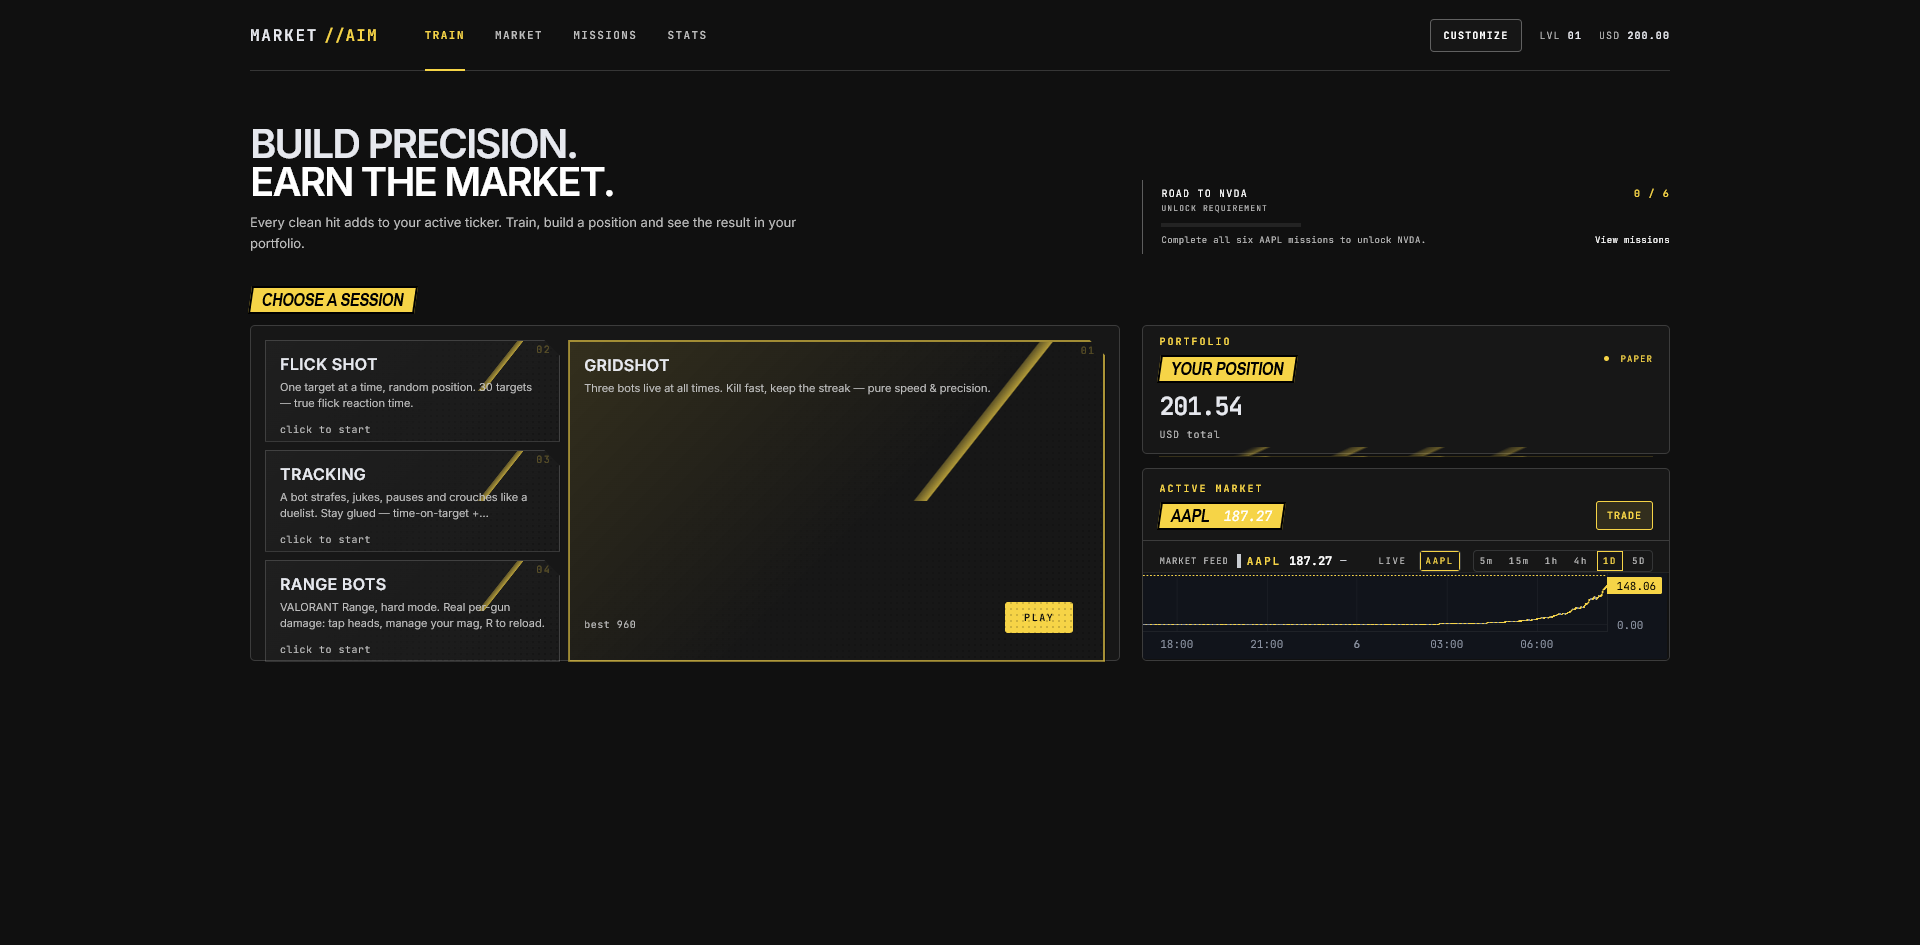
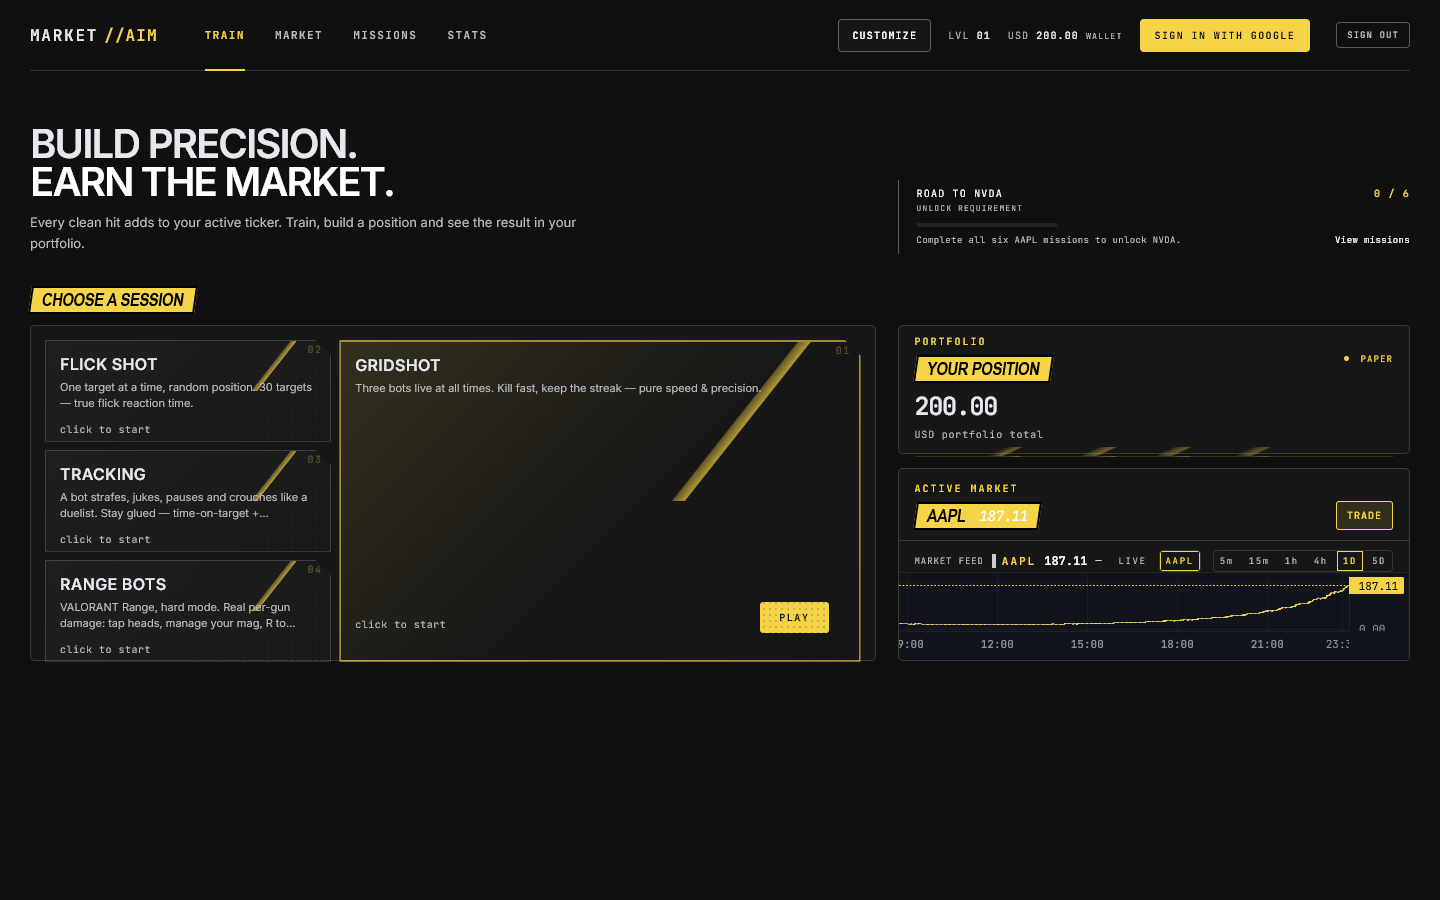
integrate auth into store, add auth.test (14 cases), fix in-memory round helper

diff --git a/client/src/store.js b/client/src/store.js
@@ -1,11 +1,16 @@
 // client/src/store.js — client-side mirror of the server state.
 // Pulls from /portfolio and /missions on demand, exposes a tiny event
 // emitter so the UI can subscribe. No third-party state lib.
+//
+// Auth is handled by client/js/auth.js which mounts a global window.auth
+// singleton. The store listens to it and re-binds player identity when
+// the user signs in / out, so the rest of the app only has to look at
+// state.player to know who is playing.
 
-import { api } from './api.js?v=20261006-4';
-import { getPlayerId, setPlayerId } from './api.js?v=20261006-4';
-import { getSessionId } from './session.js?v=20261006-4';
-import { loadGuestSnapshot, saveGuestSnapshot, clearGuestSnapshot } from './persist.js?v=20261006-4';
+import { api } from './api.js?v=20261006-7';
+import { getPlayerId, setPlayerId } from './api.js?v=20261006-7';
+import { getSessionId } from './session.js?v=20261006-7';
+import { loadGuestSnapshot, saveGuestSnapshot, clearGuestSnapshot } from './persist.js?v=20261006-7';
 
 function createStore() {
   const listeners = new Set();
@@ -19,6 +24,7 @@ function createStore() {
     loadout: { owned: [], catalog: [] }, // { owned: [gunId], catalog: [...] }
     lastError: null,
     lastHit: null,        // last aim/hit result (for the floating HUD chip)
+    auth: { signedIn: false, email: null }, // mirror of window.auth
   };
 
   function emit() { for (const l of listeners) l(state); }
@@ -44,6 +50,22 @@ function createStore() {
     return state;
   }
 
+  function applyAuthState(authState) {
+    // Mirror the auth singleton into our store so UI panels can read
+    // state.auth without taking a hard dependency on window.auth.
+    state.auth = {
+      signedIn: !!(authState && authState.player),
+      email: authState?.profile?.email || authState?.player?.email || null,
+      playerId: authState?.player?.id || null,
+    };
+    if (state.auth.signedIn) {
+      // Adopt the signed-in player id so /portfolio, /aim/hit, etc.
+      // start using the persisted Google-backed account.
+      setPlayerId(state.auth.playerId);
+    }
+    emit();
+  }
+
   // Local-only bootstrap: if the user has a saved guest snapshot, use it
   // for an instant first paint while the server round-trip is in flight.
   function bootstrap() {
@@ -55,15 +77,36 @@ function createStore() {
       state.unlocks = snap.unlocks || [];
       state.missions = snap.missions || [];
     }
+    // Subscribe to auth state. auth.js (loaded as a separate module) is
+    // expected to put a singleton on window.auth. We poll briefly so a
+    // race-condition between module load order doesn't leave us deaf.
+    function attach() {
+      if (window.auth && typeof window.auth.onChange === 'function') {
+        window.auth.onChange(applyAuthState);
+        // Sync the initial state in case auth already finished its
+        // /auth/me lookup.
+        applyAuthState(window.auth.state);
+        return true;
+      }
+      return false;
+    }
+    if (!attach()) {
+      let tries = 0;
+      const id = setInterval(() => {
+        if (attach() || ++tries > 50) clearInterval(id);
+      }, 60);
+    }
     // Eagerly kick off a server refresh. mountMissions (and other panels)
     // subscribe to the store; without this, the first render reads an
     // empty state and shows "0/6 claimed" instead of the real data.
     refresh().catch(() => { /* server may be down; keep guest snapshot */ });
   }
 
-  async function recordAimHit({ hitId, ticker, accuracy, streak }) {
+  async function recordAimHit({ hitId, ticker, accuracy, streak, gunId }) {
     const r = await api.post('/aim/hit', {
       hitId, ticker, accuracy, streak, ts: Date.now(),
+      // Pass the gunId so the server can apply per-weapon earnMult.
+      gunId: gunId || null,
     });
     state.lastHit = r;
     // Optimistic local update of the balance, but trust the server on the

diff --git a/server/src/util/gtoken.js b/server/src/util/gtoken.js
@@ -8,15 +8,27 @@
 // other crypto needs.
 //
 // On any verification error we throw — the caller turns it into a 401.
+//
+// Audience check: the optional `expectedAud` argument is the OAuth client
+// id we expect to see in the `aud` claim. If supplied and the token
+// reports a different `aud`, the token is rejected. This is what
+// prevents an attacker from replaying a token they got for a different
+// app at our endpoint. The expected id is wired up by authRoutes from
+// config.google.clientId.
 
 import { HttpError } from './json.js';
 
 const TOKENINFO_URL = 'https://oauth2.googleapis.com/tokeninfo';
 
-export async function verifyGoogleIdToken(idToken, { clientId } = {}) {
+export async function verifyGoogleIdToken(idToken, { expectedAud } = {}) {
   if (!idToken || typeof idToken !== 'string') {
     throw new HttpError(400, 'missing_id_token', 'idToken is required');
   }
+  // We resolve the expected audience at call time, not module load
+  // time, so a test that mutates process.env.GOOGLE_CLIENT_ID before
+  // calling us actually wins. The explicit `expectedAud` argument
+  // always wins (used by the production wiring in auth.js).
+  const aud = expectedAud || process.env.GOOGLE_CLIENT_ID || '';
   const url = `${TOKENINFO_URL}?id_token=${encodeURIComponent(idToken)}`;
   const res = await fetch(url, { method: 'GET' });
   if (!res.ok) {
@@ -27,9 +39,17 @@ export async function verifyGoogleIdToken(idToken, { clientId } = {}) {
   if (!payload.sub) {
     throw new HttpError(401, 'invalid_id_token', 'tokeninfo response missing sub');
   }
-  // Audience check: the token must have been issued for our OAuth client.
-  if (clientId && payload.aud && payload.aud !== clientId) {
-    throw new HttpError(401, 'audience_mismatch', 'id_token was issued for a different OAuth client');
+  // Audience check. If we know our client id, the token's `aud` MUST
+  // match. If we don't know it (e.g. dev env without GOOGLE_CLIENT_ID),
+  // we still record what the token claims, but don't reject — the
+  // server operator can opt in to a stricter check by setting the env
+  // var. We also defensively reject any aud that is not a string or is
+  // an array, since Google always issues a single string aud.
+  if (aud) {
+    if (payload.aud !== aud) {
+      throw new HttpError(401, 'audience_mismatch',
+        `id_token was issued for a different OAuth client (expected ${aud}, got ${payload.aud})`);
+    }
   }
   // Issuer check: must be Google (account chooser returns accounts.google.com too).
   if (payload.iss && payload.iss !== 'https://accounts.google.com' && payload.iss !== 'accounts.google.com') {

diff --git a/client/index.html b/client/index.html
@@ -275,7 +275,7 @@
   } catch (_) { /* no-op in browsers that lack these APIs */ }
 </script>
 <script type="module" src="src/bootstrap.js?v=20261006-5"></script>
-<script type="module" src="js/auth.js?v=20261006-6"></script>
+<script type="module" src="js/auth.js?v=20261006-7"></script>
 <!-- vibes_aim bridge (auto-registers the aim-bridge and boots the server-availability check) -->
 <script type="module" src="js/aim-bridge.js?v=20261006-5"></script>
 <!-- Google Identity Services: loads the GIS script that renders the

diff --git a/server/src/db/store.js b/server/src/db/store.js
@@ -18,6 +18,14 @@
 
 import { randomUUID } from 'node:crypto';
 
+// Minimal local rounding helpers. Server-side routes get these from
+// util/json.js, but the in-memory store needs them too for the guest
+// merge path.
+const round = (n, places = 6) => {
+  const f = 10 ** places;
+  return Math.round(Number(n) * f) / f;
+};
+
 export function createStore(supabaseConfig) {
   const useSupabase = !!(supabaseConfig?.url && supabaseConfig?.serviceKey);
   const mem = {

diff --git a/client/js/aim-bridge.js b/client/js/aim-bridge.js
@@ -6,8 +6,8 @@
 // server uses (sessionId, hitId) for idempotency, so a network blip that
 // causes a retry will not double-mint.
 
-import { api } from '../src/api.js?v=20261006-4';
-import { getSessionId } from '../src/session.js?v=20261006-4';
+import { api } from '../src/api.js?v=20261006-7';
+import { getSessionId } from '../src/session.js?v=20261006-7';
 
 const ACTIVE_TICKER_KEY = 'vibes_aim.activeTicker.v1';
 const DEFAULT_TICKER = 'AAPL';

diff --git a/client/js/auth.js b/client/js/auth.js
@@ -15,7 +15,7 @@
 // The class is exposed as a global singleton so the rest of the app can
 // reach auth state without an explicit dependency on this file.
 
-import { api } from '../src/api.js?v=20261006-5';
+import { api } from '../src/api.js?v=20261006-7';
 
 const TOKEN_KEY = 'vibes_aim.sessionToken.v1';
 const PROFILE_KEY = 'vibes_aim.profile.v1';
